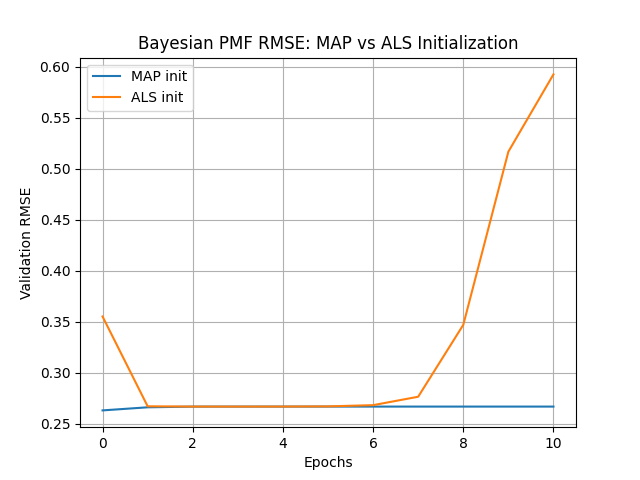
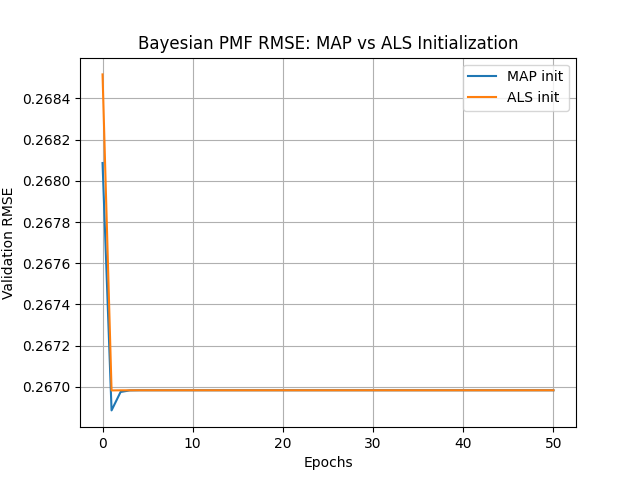
run larger latent dimension and epochs

diff --git a/main.py b/main.py
@@ -60,11 +60,12 @@ if __name__ == "__main__":
     test_bidx = test_df["business_cid"].map(item2index).to_numpy()
     test_ratings = test_df["rating"].to_numpy()
 
-    D = 5 # latent dimension
-    T = 10 # num.epochs
-    # D = 32 # latent dimension
+    # D = 5 # latent dimension
+    T = 50 # num.epochs
+    D = 32 # latent dimension
     # D = 5
     # T = 3
+    # T = 10
     nu0 = D
     mu0 = 0
     W0 = np.eye(N=D, M=D, dtype=np.float32)
